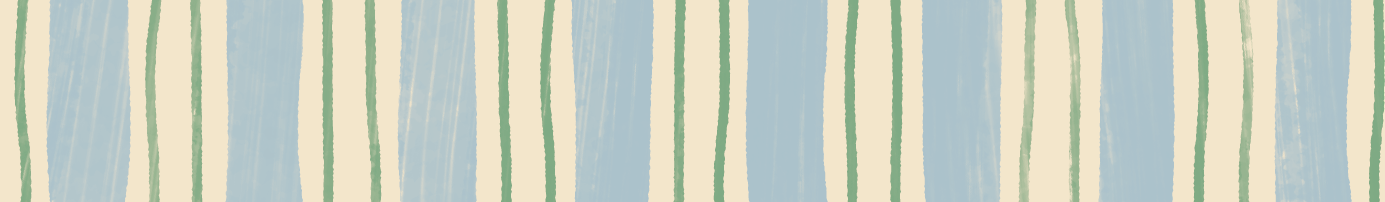
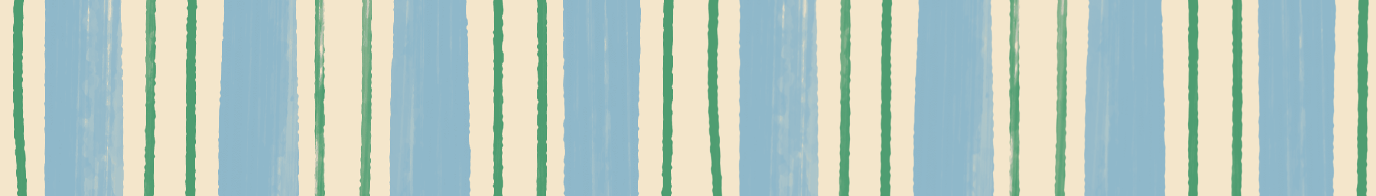
Add files via upload

diff --git a/css/style.css b/css/style.css
@@ -1,171 +1,105 @@
-/* Importação da fonte */
+/* Importação da Fonte */
 @font-face {
     font-family: 'Basic Choice';
     src: url('../fonts/Basic Choice 2.ttf') format('truetype');
-    font-weight: normal;
-    font-style: normal;
 }
 
 /* Estilo global */
 body {
     font-family: Arial, sans-serif;
-    background-color: #E09F41; /* Cor de fundo da página */
-    color: #ED704F; /* Cor do texto */
+    background-color: #E09f41;
+    color: #ED704F;
     padding: 0;
     margin: 0;
-    min-height: 100vh; /* Garante que o corpo ocupe a altura total da página */
     display: flex;
     flex-direction: column;
-    justify-content: space-between; /* Garante que o conteúdo ocupe todo o espaço disponível */
+    justify-content: space-between;
 }
 
-/* Cabeçalho - Imagem topo.png */
-header {
-    width: 100%;
-    height: auto;
-    margin: 0;
-}
-
+/* Cabeçalho */
 .header-image {
     width: 100%;
-    height: 200%; /* Aumenta a altura da imagem topo.png ao dobro da altura atual */
-    display: block;
-    object-fit: cover; /* A imagem vai se ajustar ao tamanho sem distorcer */
+    height: auto;
+    object-fit: cover;
 }
 
 /* Conteúdo Principal */
 .main-content {
     text-align: center;
-    margin-top: 20px; /* Espaço superior ajustado para posicionar mais acima */
-    flex-grow: 1; /* Faz com que o conteúdo principal ocupe o máximo de espaço disponível */
+    margin-top: 20px;
 }
 
 .main-image {
-    width: auto; /* Garante que a largura seja proporcional ao tamanho da imagem */
-    max-width: 100%; /* Limita a largura da imagem ao tamanho máximo da tela */
+    width: 50%;
     height: auto;
     display: block;
-    margin: 0 auto; /* Centraliza a imagem */
+    margin: 0 auto;
 }
 
 /* Seção dos Botões */
 .buttons-section {
-    background-color: #F4E6CB; /* Cor de fundo da seção de botões */
-    padding: 15px 0; /* Diminuído o padding vertical para reduzir o espaço de fundo */
+    background-color: #F4E6CB;
+    padding: 15px;
     text-align: center;
-    display: flex;
-    justify-content: center;
-    align-items: center;
 }
 
 .buttons-container {
     display: flex;
-    flex-direction: column; /* Empilha os botões */
-    align-items: center; /* Garante que os botões fiquem centralizados */
-    gap: 10px; /* Reduzido o espaço entre os botões para metade */
-    width: 100%; /* Garante que a largura da container ocupe 100% */
+    flex-wrap: wrap;
+    justify-content: center;
+    gap: 10px;
+    padding: 0 0.5cm; /* Margem de 0,5cm nas laterais */
 }
 
 .button {
-    background-color: #7FB1C8; /* Cor de fundo dos botões */
-    color: #F4E6CB; /* Cor do texto dos botões */
-    padding: 20px 0; /* Ajusta o padding */
-    font-size: 20px; /* Tamanho de fonte para a versão mobile */
-    font-family: 'Basic Choice', Arial, sans-serif; /* Aplica a fonte personalizada */
+    background-color: #7FB1C8;
+    color: #F4E6CB;
+    padding: 15px;
+    font-size: 20px;
+    font-family: 'Basic Choice', Arial, sans-serif;
     text-decoration: none;
-    border-radius: 25px; /* Borda arredondada para os botões */
+    border-radius: 25px;
     text-align: center;
     transition: background-color 0.3s;
-    width: calc(100% - 40px); /* A largura dos botões ocupa 100% da largura da tela, com 20px de margem dos dois lados */
-    margin: 0 20px; /* Margem lateral para garantir que não toquem as extremidades */
+    width: 100%;
+    max-width: 300px;
+    box-sizing: border-box;
 }
 
-/* Estilos para a versão mobile */
-@media (max-width: 768px) {
-    .buttons-container {
-        flex-direction: column; /* Empilha os botões na versão mobile */
-        align-items: stretch; /* Faz com que os botões ocupem toda a largura */
-    }
-
-    .button {
-        font-size: 20px; /* Tamanho de fonte menor para a versão mobile */
-        padding: 20px 0; /* Ajusta o padding para que os botões ocupem a largura total */
-        width: calc(100% - 40px); /* A largura dos botões ocupa 100% da largura da tela com a margem de 20px de cada lado */
-        margin: 0 20px; /* Margem lateral para garantir que não toquem as extremidades */
-    }
-}
-
-/* Estilos para a versão web */
-@media (min-width: 769px) {
-    .button {
-        font-size: 50px; /* Tamanho de fonte maior para a versão web */
-        padding: 30px 60px; /* Ajuste de padding na versão web */
-        width: calc(100% - 40px); /* A largura dos botões ocupa 100% da largura da tela com a margem de 20px de cada lado */
-        margin: 0 20px; /* Margem lateral para garantir que não toquem as extremidades */
-    }
-}
-
-/* Slideshow - Ajuste para imagens proporcionais e sem bordas */
+/* Slideshow */
 .slideshow-section {
     position: relative;
-    width: 100%; /* Ocupa 100% da largura da tela */
+    width: 100%;
     overflow: hidden;
-    margin: 0; /* Remove qualquer margem entre o slideshow e os botões */
-    height: 50vh; /* Ajuste a altura do slideshow para 50% da altura da tela */
+    height: 50vh;
 }
 
 .slideshow {
     display: flex;
-    width: 100%;
-    height: 100%;
-    animation: slideAnimation 40s infinite; /* Aumenta a duração da animação para desacelerar o slideshow */
+    width: calc(100% * 15); /* 15 slides */
+    animation: slideAnimation 75s linear infinite; /* 5 segundos por slide */
 }
 
 .slide {
-    width: 100%; /* Cada slide ocupa 100% da largura da tela */
+    width: calc(100% / 15); /* Cada slide ocupa 1/15 do total */
     flex-shrink: 0;
-    opacity: 0;
-    animation: fadeInOut 40s infinite; /* A animação de fade in/out também tem a duração mais lenta */
 }
 
 .slide img {
-    width: 100%; /* A largura das imagens vai ser 100% da largura da tela */
-    height: 100%; /* A altura também vai ser 100% para garantir que a imagem cubra a área do slide */
-    object-fit: cover; /* Faz a imagem cobrir a área sem distorcer */
-    margin: 0; /* Remove qualquer margem da imagem */
+    width: 100%;
+    height: 100%;
+    object-fit: cover;
 }
 
-/* Animação de transição dos slides */
+/* Animação para o slideshow */
 @keyframes slideAnimation {
     0% { transform: translateX(0); }
-    14.29% { transform: translateX(-100%); }
-    28.57% { transform: translateX(-200%); }
-    42.86% { transform: translateX(-300%); }
-    57.14% { transform: translateX(-400%); }
-    71.43% { transform: translateX(-500%); }
-    85.71% { transform: translateX(-600%); }
-    100% { transform: translateX(-700%); }
+    100% { transform: translateX(-100%); }
 }
 
-/* Animação de fade in e fade out para suavizar a transição */
-@keyframes fadeInOut {
-    0%, 100% { opacity: 0; }
-    10%, 90% { opacity: 1; }
-}
-
-/* Rodapé - Imagem roda.png */
-footer {
+/* Rodapé */
+.footer-image {
     width: 100%;
     height: auto;
-    margin: 0;
-    position: relative; /* Permite ajustar a posição do rodapé */
-}
-
-.footer-image {
-    width: 100%; /* A imagem ocupa 100% da largura da página */
-    height: 130%; /* Aumenta a altura da imagem roda.png em 30% */
-    display: block; /* Remove espaços abaixo da imagem */
-    object-fit: cover; /* A imagem irá cobrir a área sem distorcer */
-    margin: 0; /* Remove qualquer margem da imagem */
-    padding: 0; /* Remove qualquer padding da imagem */
+    object-fit: cover;
 }

diff --git a/index.html b/index.html
@@ -7,14 +7,14 @@
     <link rel="stylesheet" href="css/style.css">
 </head>
 <body>
-    <!-- Cabeçalho com imagem topo.png -->
+    <!-- Cabeçalho -->
     <header>
         <img src="images/topo.png" alt="Imagem Cabeçalho" class="header-image">
     </header>
 
     <!-- Conteúdo Principal -->
     <main>
-        <!-- Imagem Centralizada e Margem -->
+        <!-- Imagem Central -->
         <section class="main-content">
             <img src="images/favu.png" alt="Imagem FAVU" class="main-image">
         </section>
@@ -22,8 +22,8 @@
         <!-- Seção dos Botões -->
         <div class="buttons-section">
             <div class="buttons-container">
-                <a href="https://favucozinha.github.io/Quemsomos/" class="button">Conheça a FAVU </a>
-                <a href="https://favucozinha.github.io/Cardapio/" class="button">Cardápio de Natal</a>
+                <a href="https://favucozinha.github.io/Quemsomos/" class="button">Conheça a FAVU</a>
+                <a href="https://tinyurl.com/MenuFavu" class="button">Cardápio</a>
                 <a href="https://www.instagram.com/favucozinha/" class="button">Vem seguir a gente!</a>
                 <a href="https://wa.me/558199591775" class="button">Faça seu pedido!</a>
             </div>
@@ -32,20 +32,31 @@
         <!-- Slideshow -->
         <section class="slideshow-section">
             <div class="slideshow">
-                <div class="slide"><img src="images/s1.png" alt="Imagem 1"></div>
-                <div class="slide"><img src="images/s2.png" alt="Imagem 2"></div>
-                <div class="slide"><img src="images/s3.png" alt="Imagem 3"></div>
-                <div class="slide"><img src="images/s4.png" alt="Imagem 4"></div>
-                <div class="slide"><img src="images/s5.png" alt="Imagem 5"></div>
-                <div class="slide"><img src="images/s6.png" alt="Imagem 6"></div>
-                <div class="slide"><img src="images/b1.png" alt="Imagem B1"></div>
+                <div class="slide"><img src="images/S01.jpg" alt="Imagem 1"></div>
+                <div class="slide"><img src="images/S02.jpg" alt="Imagem 2"></div>
+                <div class="slide"><img src="images/S03.jpg" alt="Imagem 3"></div>
+                <div class="slide"><img src="images/S04.jpg" alt="Imagem 4"></div>
+                <div class="slide"><img src="images/S05.jpg" alt="Imagem 5"></div>
+                <div class="slide"><img src="images/S06.jpg" alt="Imagem 6"></div>
+                <div class="slide"><img src="images/S07.jpg" alt="Imagem 7"></div>
+                <div class="slide"><img src="images/S08.jpg" alt="Imagem 8"></div>
+                <div class="slide"><img src="images/S09.jpg" alt="Imagem 9"></div>
+                <div class="slide"><img src="images/S10.jpg" alt="Imagem 10"></div>
+                <div class="slide"><img src="images/S11.jpg" alt="Imagem 11"></div>
+                <div class="slide"><img src="images/S12.jpg" alt="Imagem 12"></div>
+                <div class="slide"><img src="images/S13.jpg" alt="Imagem 13"></div>
+                <div class="slide"><img src="images/S14.jpg" alt="Imagem 14"></div>
+                <div class="slide"><img src="images/S15.jpg" alt="Imagem 15"></div>
             </div>
         </section>
     </main>
 
-    <!-- Rodapé com a imagem "roda.png" -->
+    <!-- Rodapé -->
     <footer>
         <img src="images/roda.png" alt="Imagem de rodapé" class="footer-image">
     </footer>
+
+    <!-- Script JavaScript -->
+    <script src="js/scripts.js"></script>
 </body>
 </html>

diff --git a/js/script.js b/js/script.js
@@ -1,15 +1,3 @@
-document.addEventListener("DOMContentLoaded", function() {
-    let currentSlide = 0;
-    const slides = document.querySelectorAll('.slide');
-    const totalSlides = slides.length;
-
-    function changeSlide() {
-        slides.forEach((slide, index) => {
-            slide.style.opacity = index === currentSlide ? '1' : '0';
-        });
-
-        currentSlide = (currentSlide + 1) % totalSlides;
-    }
-
-    setInterval(changeSlide, 4000); // Troca de slide a cada 4 segundos
-});
+// Nenhum código adicional é necessário para o slideshow, pois o CSS gerencia o loop infinito.
+// Este script inicializa a opacidade do primeiro slide, se necessário.
+document.querySelectorAll('.slide')[0].style.opacity = 1;
